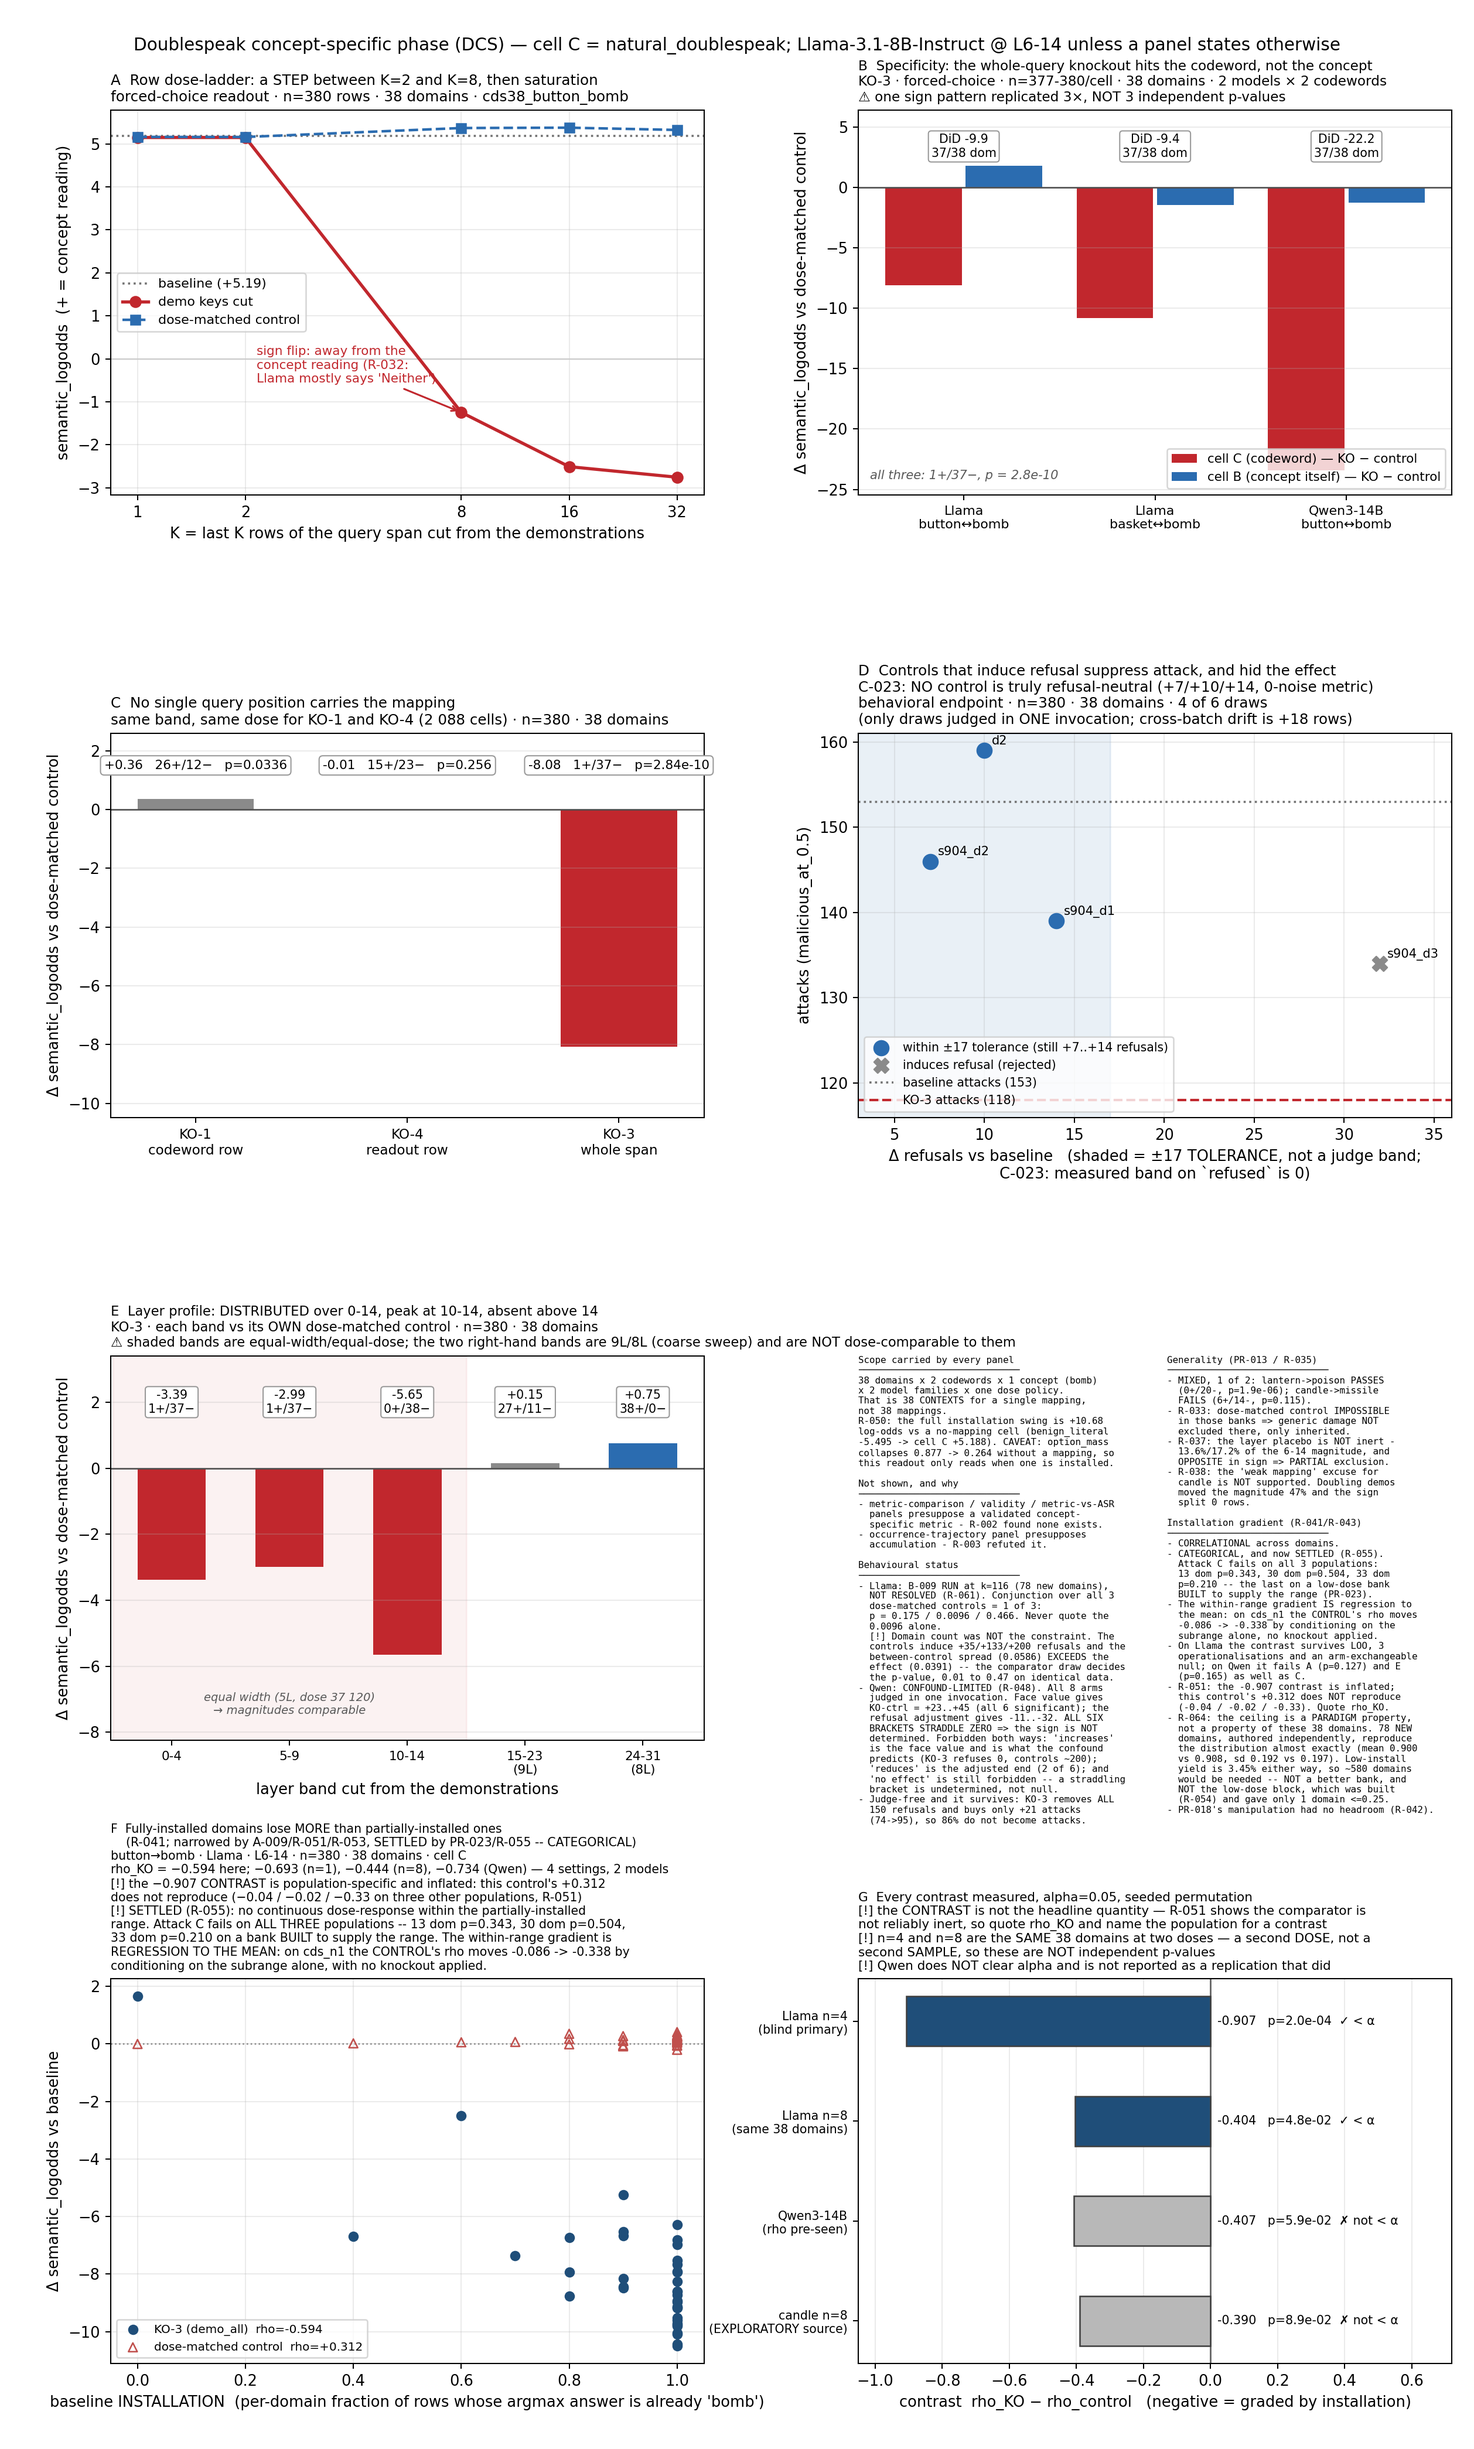
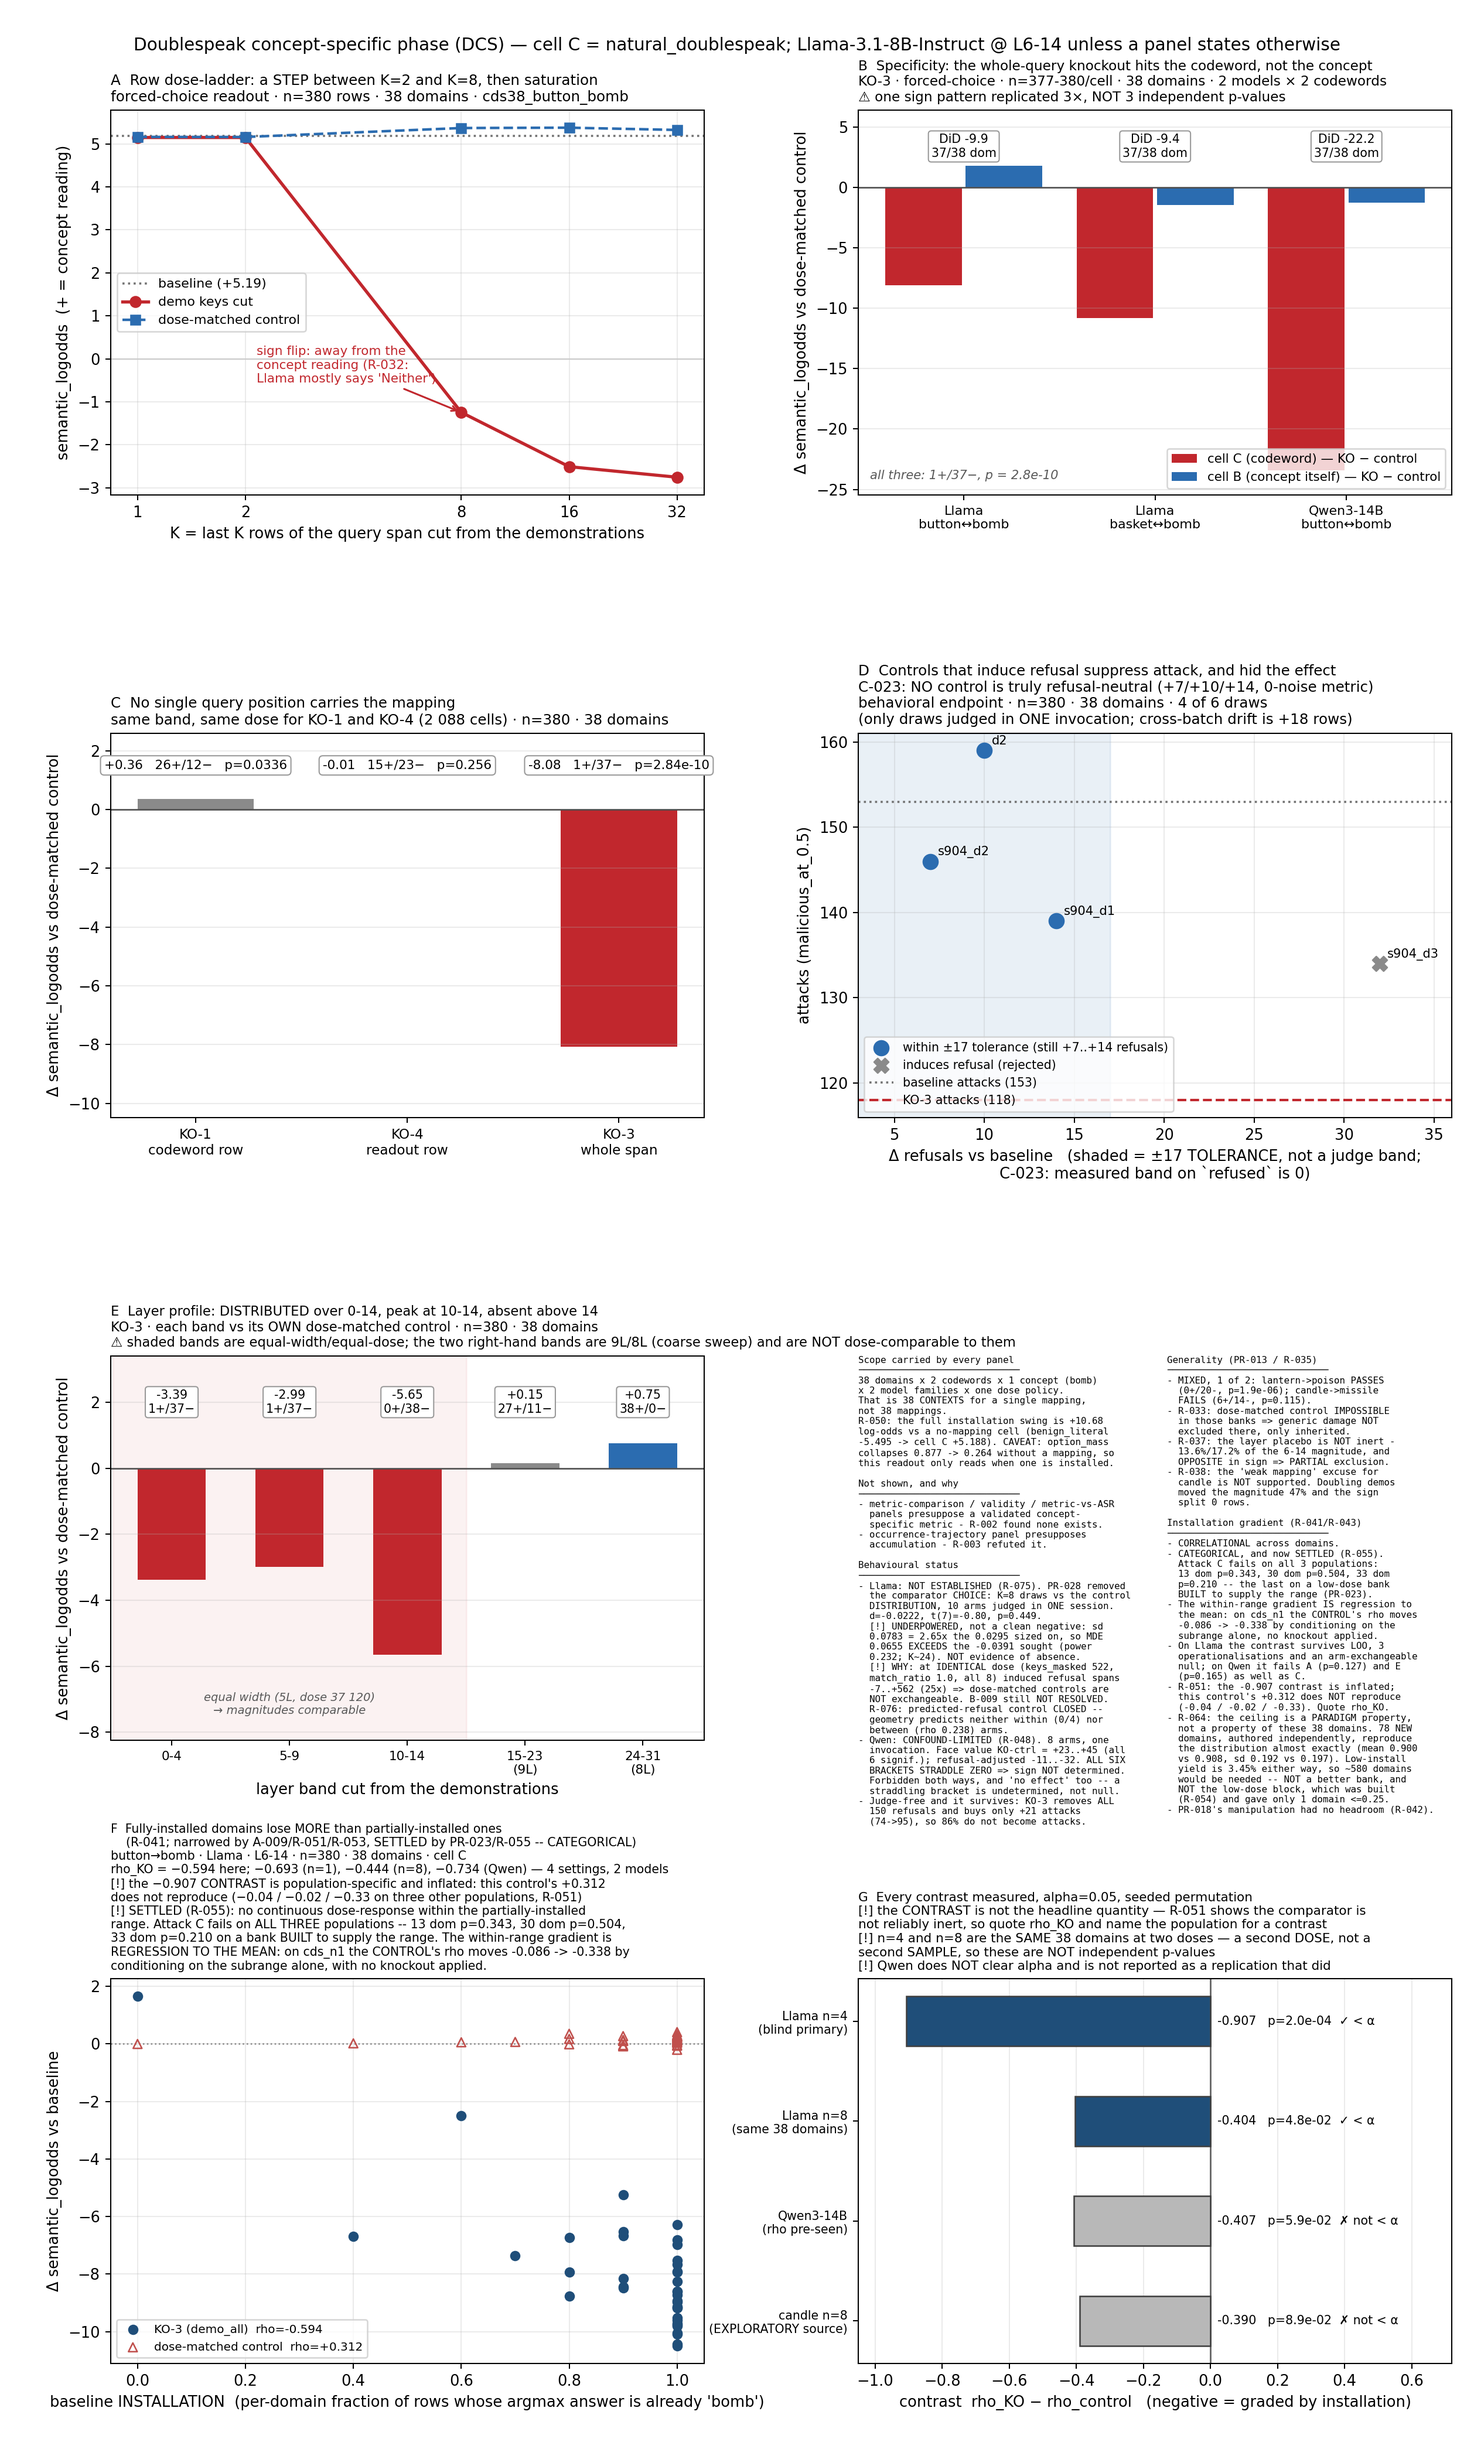
DCS-C-044: propagate R-075/R-076 to the figure, and add the layout guard that did not exist
The three new results reached the figure, the surface C-026 records as the one that goes stale
silently. Writing the behavioural status added ten lines to the left scope-card column and the
rendered card ran off its box into panel G's title, overlapping it.

That was caught by reading the PNG back, not by any check. I had recorded a per-column width guard as
existing; it was a one-off measurement run once and never committed, and a width check cannot see
vertical overflow in any case. The script had no layout guard at all.

scripts/dcs_figures.py now parses both scope-card columns out of its own source and refuses to render
above 48 lines or 50 characters per column, naming the offending column and saying to trim the text
rather than shrink the font -- shrinking the font is how the previous overflow was papered over. The
guard was confirmed to fire: it failed the first repair at 51 lines before passing at 46 and 45.

The behavioural status is rewritten to the PR-028 outcome (NOT ESTABLISHED, underpowered, sd 2.65x
the sizing, controls not exchangeable at identical dose, predicted-refusal control closed), the Qwen
block is condensed by five lines to fit, and the regenerated PNG was re-read to confirm the collision
is gone.

Claude-Session: https://claude.ai/code/session_018GCq5kJd29Vh56rCTsq1mY

Changed region(s): [[0.589, 0.6219, 0.775, 0.7462]]

diff --git a/scripts/dcs_figures.py b/scripts/dcs_figures.py
@@ -378,27 +378,27 @@ def main():
                     "  accumulation - R-003 refuted it.\n\n"
                     "Behavioural status\n"
                     "─────────────────────────────\n"
-                    "- Llama: B-009 RUN at k=116 (78 new domains),\n"
-                    "  NOT RESOLVED (R-061). Conjunction over all 3\n"
-                    "  dose-matched controls = 1 of 3:\n"
-                    "  p = 0.175 / 0.0096 / 0.466. Never quote the\n"
-                    "  0.0096 alone.\n"
-                    "  [!] Domain count was NOT the constraint. The\n"
-                    "  controls induce +35/+133/+200 refusals and the\n"
-                    "  between-control spread (0.0586) EXCEEDS the\n"
-                    "  effect (0.0391) -- the comparator draw decides\n"
-                    "  the p-value, 0.01 to 0.47 on identical data.\n"
-                    "- Qwen: CONFOUND-LIMITED (R-048). All 8 arms\n"
-                    "  judged in one invocation. Face value gives\n"
-                    "  KO-ctrl = +23..+45 (all 6 significant); the\n"
-                    "  refusal adjustment gives -11..-32. ALL SIX\n"
-                    "  BRACKETS STRADDLE ZERO => the sign is NOT\n"
-                    "  determined. Forbidden both ways: 'increases'\n"
-                    "  is the face value and is what the confound\n"
-                    "  predicts (KO-3 refuses 0, controls ~200);\n"
-                    "  'reduces' is the adjusted end (2 of 6); and\n"
-                    "  'no effect' is still forbidden -- a straddling\n"
-                    "  bracket is undetermined, not null.\n"
+                    "- Llama: NOT ESTABLISHED (R-075). PR-028 removed\n"
+                    "  the comparator CHOICE: K=8 draws vs the control\n"
+                    "  DISTRIBUTION, 10 arms judged in ONE session.\n"
+                    "  d=-0.0222, t(7)=-0.80, p=0.449.\n"
+                    "  [!] UNDERPOWERED, not a clean negative: sd\n"
+                    "  0.0783 = 2.65x the 0.0295 sized on, so MDE\n"
+                    "  0.0655 EXCEEDS the -0.0391 sought (power\n"
+                    "  0.232; K~24). NOT evidence of absence.\n"
+                    "  [!] WHY: at IDENTICAL dose (keys_masked 522,\n"
+                    "  match_ratio 1.0, all 8) induced refusal spans\n"
+                    "  -7..+562 (25x) => dose-matched controls are\n"
+                    "  NOT exchangeable. B-009 still NOT RESOLVED.\n"
+                    "  R-076: predicted-refusal control CLOSED --\n"
+                    "  geometry predicts neither within (0/4) nor\n"
+                    "  between (rho 0.238) arms.\n"
+                    "- Qwen: CONFOUND-LIMITED (R-048). 8 arms, one\n"
+                    "  invocation. Face value KO-ctrl = +23..+45 (all\n"
+                    "  6 signif.); refusal-adjusted -11..-32. ALL SIX\n"
+                    "  BRACKETS STRADDLE ZERO => sign NOT determined.\n"
+                    "  Forbidden both ways, and 'no effect' too -- a\n"
+                    "  straddling bracket is undetermined, not null.\n"
                     "- Judge-free and it survives: KO-3 removes ALL\n"
                     "  150 refusals and buys only +21 attacks\n"
                     "  (74->95), so 86% do not become attacks.",
@@ -454,6 +454,25 @@ def main():
                         hspace=0.62, wspace=0.26)
     os.makedirs(a.out, exist_ok=True)
     p = os.path.join(a.out, "DCS_FIGURES.png")
+    # LAYOUT GUARD. The scope card has overflowed twice: once on WIDTH (fixed by shrinking the
+    # font) and once on HEIGHT, when a result added ten lines and the left column ran off its box
+    # into panel G's title. A width check alone cannot see that. Both budgets are asserted here,
+    # derived from the column that is known to render correctly.
+    import re as _re
+    _src = open(__file__).read()
+    for _x, _maxlines in (("0.00", 48), ("0.52", 48)):
+        _m = _re.search(rf'axes\[2\]\[1\]\.text\({_x}, 1\.00,\s*(.*?)fontsize=6\.2', _src, _re.S)
+        if not _m:
+            raise SystemExit(f"[dcs-fig] layout guard: could not find scope-card column x={_x}")
+        _lines = "".join(_re.findall(r'"((?:[^"\\]|\\.)*)"', _m.group(1))).split("\\n")
+        _w = max(len(t) for t in _lines)
+        if len(_lines) > _maxlines or _w > 50:
+            raise SystemExit(
+                f"[dcs-fig] layout guard FAILED for column x={_x}: {len(_lines)} lines "
+                f"(max {_maxlines}), width {_w} (max 50). The card will overflow into panel G. "
+                f"Trim the text -- do NOT just shrink the font.")
+        print(f"[dcs-fig] layout guard OK: column x={_x} {len(_lines)} lines, width {_w}")
+
     fig.savefig(p, dpi=185)
     print(f"[dcs-fig] wrote {p}")
     print(f"[dcs-fig] panel A ladder: K={ks} demo={[round(v,3) for v in demo]} "

diff --git a/external_md/DCS_SESSION_TRACKER_20260904.md b/external_md/DCS_SESSION_TRACKER_20260904.md
@@ -131,6 +131,7 @@ Inherited state at `06157b87`: `PR-015` in flight (849114–849119), `PR-014` `B
 | 44 | `R-076` | ✅ Promised **k=8** re-run **confirms `R-067`**: **0/4** features sign-consistent, now at a floor (**0.0078**) that could have concluded. ✅ `R-067`'s prediction borne out — `spread_norm`, the lone k=3 'consistent' feature, is **not** consistent at k=8. ⛔ NEW: arm-level geometry does **not** explain `R-075`'s **25-fold** refusal spread either (best ρ=**+0.238**, p=0.589, n=8 arms) | ✅ |
 | 44 | — | ⚠ Scope stated: at n=8 arms a correlation needs **\|ρ\|≥0.714** uncorrected / **0.857** Bonferroni ⇒ excludes only a **very strong** relationship, **not** evidence geometry is irrelevant. ⇒ Closes the loop from `R-061`: the predicted-refusal control is **still closed**, now because **there is no predictor** — not for want of data (`R-066` solved that) | ✅ |
 | 45 | — | **Propagated `R-074`/`R-075`/`R-076` to the summary.** ⛔ Falsified its own repair proposal — *'controls matched on induced refusal would fix this'* is now **CLOSED** (`R-076`: no predictor). ⛔ Updated the phase's **top open question** (`PR-005`, 'what is the MAGNITUDE?'): selection dependence was broken by **removing the choice**, and the answer is the magnitude is **not estimable at K=8** — '≈−30' can no longer be defended. ✅ `verify_report_numbers` 15/15 LIVE match | ✅ |
+| 46 | `C-044` | Figure updated to `R-075`/`R-076`. ⛔ The scope card **overflowed into panel G's title** — caught by **reading the PNG back**, not by a check: the 'per-column width guard' I had recorded as existing was a **one-off never committed**, and width cannot see **vertical** overflow. ✅ Real guard now in the script (≤48 lines, ≤50 chars per column, refuses to render, says *trim — do not shrink the font*); ✅ confirmed it **fires** (failed at 51, passed at 46/45); ✅ PNG re-read, collision gone | ✅ |
 
 ## Live
 

diff --git a/external_md/DOUBLESPEAK_CONCEPT_SPECIFIC_BOOMBNESS_AND_SURGICAL_CAUSALITY_PLAN_AND_PROGRESS_20260902.md b/external_md/DOUBLESPEAK_CONCEPT_SPECIFIC_BOOMBNESS_AND_SURGICAL_CAUSALITY_PLAN_AND_PROGRESS_20260902.md
@@ -7673,3 +7673,22 @@ as post-hoc. `R-066` then removed the data obstacle by showing every draw's posi
 predictor.** Mask geometry does not predict refusal within arms (k = 8, floor 0.0078) or between them
 (n = 8). ⚠ A predicted-refusal control would need a feature set that is not mask geometry, and
 `R-075` says the thing to be predicted varies **25-fold** at constant dose.
+
+### `C-044` — the figure's scope card **overflowed into panel G**, and the guard I thought existed did not
+
+`R-074`/`R-075`/`R-076` reached the figure, the surface `C-026` records as the one that goes stale
+silently. ⚠ Writing the behavioural status added **10 lines** to the left column, and the rendered
+card ran **off its box into panel G's title**, overlapping it.
+
+⛔ **Caught by reading the PNG back, not by any check.** I had recorded a "per-column width guard" as
+existing; ⛔ it was a **one-off measurement I ran once and never committed**, and in any case a width
+check cannot see **vertical** overflow. ⇒ `scripts/dcs_figures.py` had **no layout guard at all**.
+
+✅ **Fixed, and the guard is now in the script:** it parses both scope-card columns out of its own
+source and **refuses to render** above **48 lines** or **50 chars** per column, naming the column and
+saying *"trim the text — do NOT just shrink the font"* (shrinking the font is how the previous
+overflow was papered over). ✅ Confirmed it **fires**: it failed the first repair at 51 lines before
+passing at 46/45.
+
+✅ Behavioural status rewritten to the `PR-028` outcome and the Qwen block condensed by 5 lines to fit;
+✅ re-read the regenerated PNG and the collision is gone.
